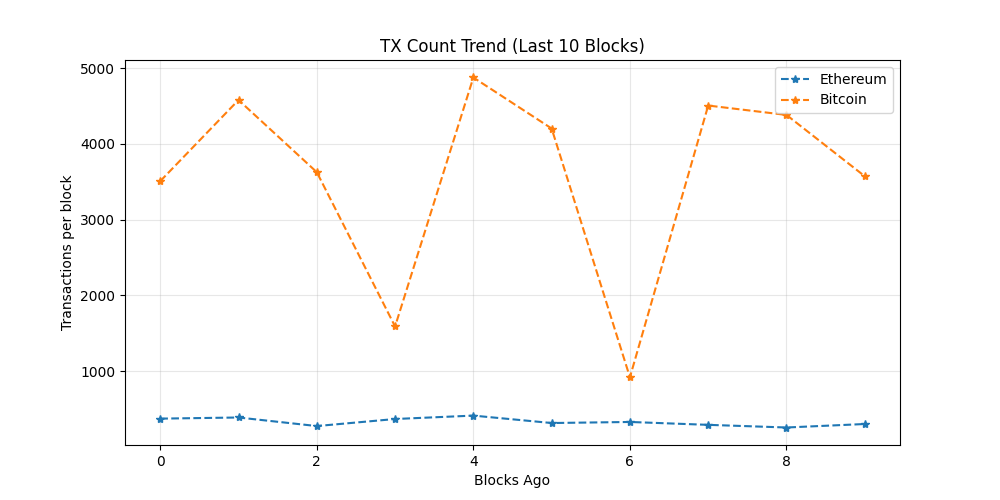
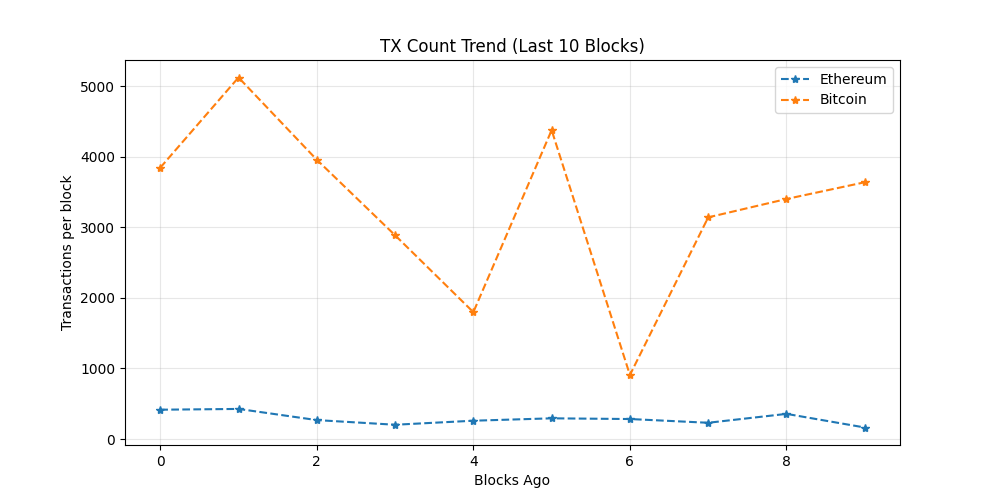
chore: update on-chain dashboard

diff --git a/README.md b/README.md
@@ -19,7 +19,7 @@ The README itself acts as the dashboard and is regenerated automatically on a 6 
 demonstrating a production-style, infrastructure-focused observability workflow rather
 than a traditional UI-driven approach.
 
-_Last updated: 2026-02-25 13:42 UTC_
+_Last updated: 2026-02-25 19:19 UTC_
 
 ## API Usage (GetBlock.io)
 - Calls used: **24**
@@ -27,8 +27,8 @@ _Last updated: 2026-02-25 13:42 UTC_
 ## Network Metrics
 | Chain | Block Height | TX Count | TPS (10 blk avg) | Block Util | Avg Fee |
 |------|-------------|----------|------------------|------------|---------|
-| Ethereum | 24534299 | 303 | 25.25 | 52.73% | 0.1 Gwei |
-| Bitcoin | 938289 | 3572 | 18.8 | 99.79% | N/A |
+| Ethereum | 24535972 | 164 | 13.67 | 46.71% | 0.1 Gwei |
+| Bitcoin | 938324 | 3638 | 2.52 | 99.9% | N/A |
 
 ## Visuals
 ### Transactions Trend
@@ -43,11 +43,11 @@ _Last updated: 2026-02-25 13:42 UTC_
 ## Whale Alerts (latest block)
 - Transaction hashes are truncated for readability.
 - Full hashes are available in `dashboards/metrics.json`
-- Bitcoin | 341.61 BTC | `62f7a12aeff0…`
-- Bitcoin | 200.17 BTC | `886d2695f726…`
-- Bitcoin | 200.16 BTC | `c97ac157b711…`
-- Bitcoin | 199.85 BTC | `f4757f0ac77b…`
-- Bitcoin | 199.56 BTC | `862851821bf2…`
+- Bitcoin | 438.36 BTC | `c1dec1dbddad…`
+- Bitcoin | 169.56 BTC | `307a81632cc8…`
+- Bitcoin | 169.5 BTC | `6436644ea661…`
+- Bitcoin | 169.44 BTC | `97beb62ca868…`
+- Bitcoin | 169.31 BTC | `9ae610ec2d2d…`
 
 ## Run locally
 
